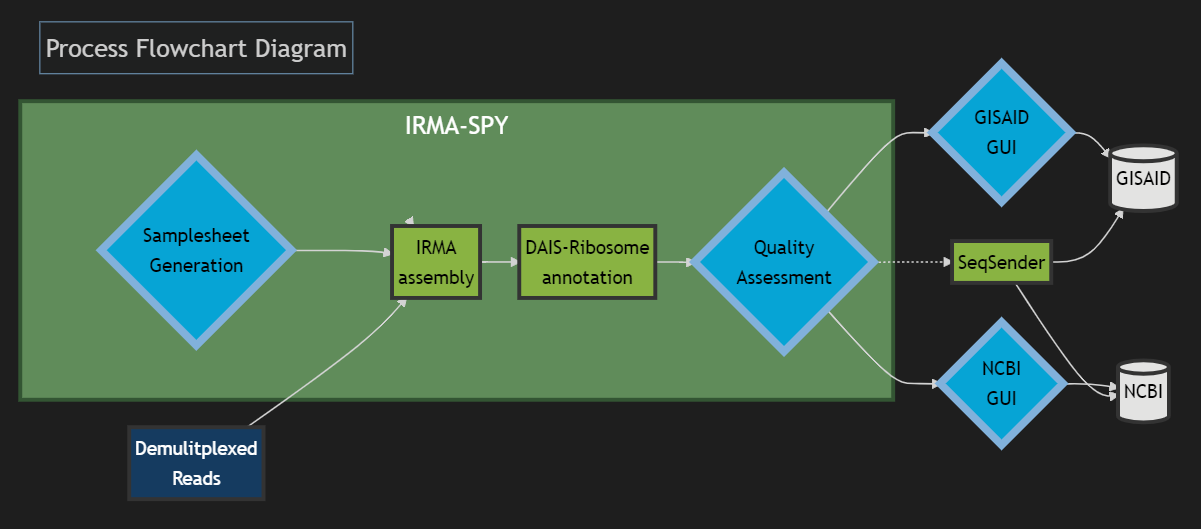
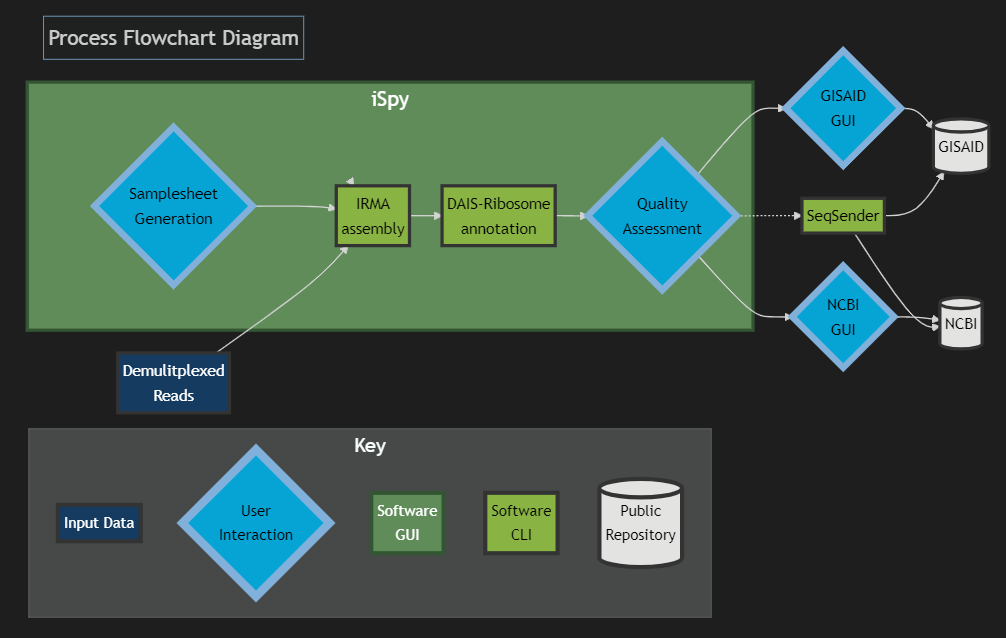
working

diff --git a/README.md b/README.md
@@ -6,20 +6,23 @@
 <hr>
 
 ## Contents
-1. [Computer requirements](#computer-requirements)
-2. [Installing Linux on Windows](#how-to-install-linux-on-a-windows-1011-computer)
-3. [Map Linux folders to Windows folders](#map-network-drive-to-be-able-to-use-windows-file-explorer-to-see-folders-and-files-inside-wsl)
-4. [Install Docker Desktop](#install-docker-desktop)
-5. [Install Docker for Linux](#install-docker-cli-command-line-interface-in-wsl2)
-6. [Install a sequence viewer](#install-a-sequence-viewer)
-7. [Install IRMA-SPY](#instructions-for-running-irma-spy)
-8. [Run IRMA-SPY](./IRMA-SPY-DOC.md)
+- [Protocol for Influenza genome and SARS-CoV-2 spike-only assembly and curation](#protocol-for-influenza-genome-and-sars-cov-2-spike-only-assembly-and-curation)
+  - [Start with demultiplexed sequencing reads from an Illumina or Oxford Nanopore Technologies sequencer and finish with high quality genomes ready for submission to public repositories!](#start-with-demultiplexed-sequencing-reads-from-an-illumina-or-oxford-nanopore-technologies-sequencer-and-finish-with-high-quality-genomes-ready-for-submission-to-public-repositories)
+- [Contents](#contents)
+- [Computer requirements](#computer-requirements)
+- [How to install linux on a Windows 10/11 computer](#how-to-install-linux-on-a-windows-1011-computer)
+- [Map network drive to be able to use Window's File Explorer to see folders and files inside WSL](#map-network-drive-to-be-able-to-use-windows-file-explorer-to-see-folders-and-files-inside-wsl)
+- [Install Docker Desktop](#install-docker-desktop)
+- [Install Docker CLI (Command Line Interface) in WSL2](#install-docker-cli-command-line-interface-in-wsl2)
+- [Install a sequence viewer](#install-a-sequence-viewer)
+- [Instructions for running iSpy](#instructions-for-running-ispy)
+- [Container Setup](#container-setup)
 
 <hr>
 <hr>
 
 ![alt text](./images/mermaid_flow.png)
-![alt text](./images/mermaid_key.png)
+
 
 
 
@@ -73,7 +76,7 @@ Further details can be found on Microsoft's website here: [https://docs.microsof
 
 
 1. Open <a href="./images/file_explorer.png" target="_blank">File Explorer</a>
-    - _If you have a Windows 11 OS, WSL is likely automatically mapped and visible in the left hand sidebar as "Ubuntu"_
+    - _If you have a Windows 10 or 11 OS, WSL is likely automatically mapped and visible in the left hand sidebar as "Ubuntu"_
 2. Right click <a href="./images/map_drive_1.png" target="_blank">This PC and click Map network drive</a>
 3. Enter `\\wsl$` into Folder: <a href="./images/map_drive_2.png" target="_blank">and click Browse</a>
 4. Click on `wsl$` to unfold directories, select `Ubuntu-18.04` <a href="./images/map_drive_3.png" target="_blank">and click OK</a> and then `Finish`. You should now see your WSL "drive" available in `File Explorer`:
@@ -150,7 +153,7 @@ Docker allows you to run software inside an isolated "container image" on your c
     ```bash
     sudo chmod -755 /run/docker.sock
     ```
-    - If you can now see the hello-world container in Docker Desktop, you can proceed to pulling and running IRMA-SPY containers
+    - If you can now see the hello-world container in Docker Desktop, you can proceed to pulling and running iSpy containers
     - If you open Docker Desktop and do not see the Hello World container you just ran, click Settings icon (top right) --> Resources --> WSL Integration
     - Ensure that "Enable integration with my default WSL distro" is checked off, and that Ubuntu-18.04 distro is switched on
     ![alt text](./images/WSL_docker.png)
@@ -173,7 +176,7 @@ Docker allows you to run software inside an isolated "container image" on your c
 
 [Return to Contents](#contents)
 
-## Instructions for running IRMA-SPY
+## Instructions for running iSpy
 <hr>
 
 ## Container Setup
@@ -193,11 +196,11 @@ If using a Windows PC, you should have already installed WSL2, Docker Desktop, *
     ```bash
     docker pull public.ecr.aws/n3z8t4o2/dais-ribosome:1.2.1
     ```
-4. Pull the container for IRMA-SPY's backend [Snakemake workflow manager](https://snakemake.readthedocs.io/en/stable/)
+4. Pull the container for iSpy's backend [Snakemake workflow manager](https://snakemake.readthedocs.io/en/stable/)
     ```bash
-    docker pull quay.io/nbx0_cdc/sc2-spike-seq:v1.0.0
+    docker pull quay.io/nbx0_cdc/spyne:v1.0.0
     ```
-5. Pull the container for IRMA-SPY
+5. Pull the container for iSpy
     ```bash
     docker pull quay.io/nbx0_cdc/irma-spy:v1.0.1
     ```
@@ -217,14 +220,14 @@ If using a Windows PC, you should have already installed WSL2, Docker Desktop, *
     ```
 9. Build the Snakemake container
     ```bash
-    docker run -v $(readlink -f ~/FLU_SC2_SEQUENCING):/data -v /var/run/docker.sock:/var/run/docker.sock --name sc2-spike-seq -t -d quay.io/nbx0_cdc/sc2-spike-seq:v1.0.0
+    docker run -v $(readlink -f ~/FLU_SC2_SEQUENCING):/data -v /var/run/docker.sock:/var/run/docker.sock --name spyne -t -d quay.io/nbx0_cdc/spyne:v1.0.0
     ```
-10. Build the IRMA-SPY container
+10. Build the iSpy container
     ```bash
     docker run -v $(readlink -f ~/FLU_SC2_SEQUENCING):/data -v /var/run/docker.sock:/var/run/docker.sock -d -p 8050:8050 --name irma-spy quay.io/nbx0_cdc/irma-spy:v1.0.1
     ```
 
-You are now ready to run IRMA-SPY! You can open it from `Docker Desktop` by clicking on the `Containers` tab on the left sidebar and clicking the icon of the box with the arrow pointing to the top left. This will open IRMA-SPY into your default internet browser.
+You are now ready to run iSpy! You can open it from `Docker Desktop` by clicking on the `Containers` tab on the left sidebar and clicking the icon of the box with the arrow pointing to the top left. This will open iSpy into your default internet browser.
 ![alt text](./images/dockerdesktop_launch_irmaspy.png)
 
 [Return to Contents](#contents)

diff --git a/IRMA-SPY-DOC.md b/IRMA-SPY-DOC.md
@@ -1,4 +1,4 @@
-## IRMA-SPY Documentation
+## iSpy Documentation
 
 <hr>
 
@@ -10,7 +10,7 @@
 
 ## Contents
 1. [Stage your fastqs](#stage-your-demultiplexed-data)
-2. [Running genome assembly with IRMA-SPY](#run-genome-assembly-with-irma-spy)
+2. [Running genome assembly with iSpy](#run-genome-assembly-with-irma-spy)
 3. [Reviewing IRMA results](#review-irma-results)
 4. [Download your fasta](#save-your-sequence-fasta)
 
@@ -27,15 +27,15 @@
 
 [Return to contents](#contents)
 
-## Run genome assembly with IRMA-SPY
+## Run genome assembly with iSpy
 1. Open Docker Desktop and navigate to the `Containers` tab on the left sidebar. Assure that the following containers are running or run each of them:
     1. irma-1.0.2p3
     2. dais-ribsome-1.2.1
-    3. sc2-spike-seq
+    3. spyne
     4. irma-spy
     
     ![alt text](./images/dockerdesktop_run_containers.png)
-2. Run IRMA-SPY by clicking the icon of the box with the arrow pointing to the top left. This will open IRMA-SPY into your defa ult internet browser.
+2. Run iSpy by clicking the icon of the box with the arrow pointing to the top left. This will open iSpy into your defa ult internet browser.
 
     ![alt text](./images/dockerdesktop_launch_irmaspy.png)
 3. Click the `REFRESH RUN LISTING` button and select your run from  the dropdown box.
@@ -52,7 +52,7 @@
     ![alt text](./images/spy-exportSampleSheet2.png)
     ![alt text](./images/spy-exportSampleSheet3.png)
 
-6. Return to `IRMA-SPY` and **refresh** the webpage. Now select the correct data type from the drop down box, `What kind of data is this?` and click `START GENOME ASSEMBLY`. Now is a good time to go have a coffee. :coffee:
+6. Return to `iSpy` and **refresh** the webpage. Now select the correct data type from the drop down box, `What kind of data is this?` and click `START GENOME ASSEMBLY`. Now is a good time to go have a coffee. :coffee:
 
     ![alt text](./images/spy-selectDataType.png)
 
@@ -98,4 +98,4 @@
 
 [Return to contents](#contents)
 
-[Return to IRMA-SPY computer setup](./README.md)
+[Return to iSpy computer setup](./README.md)
